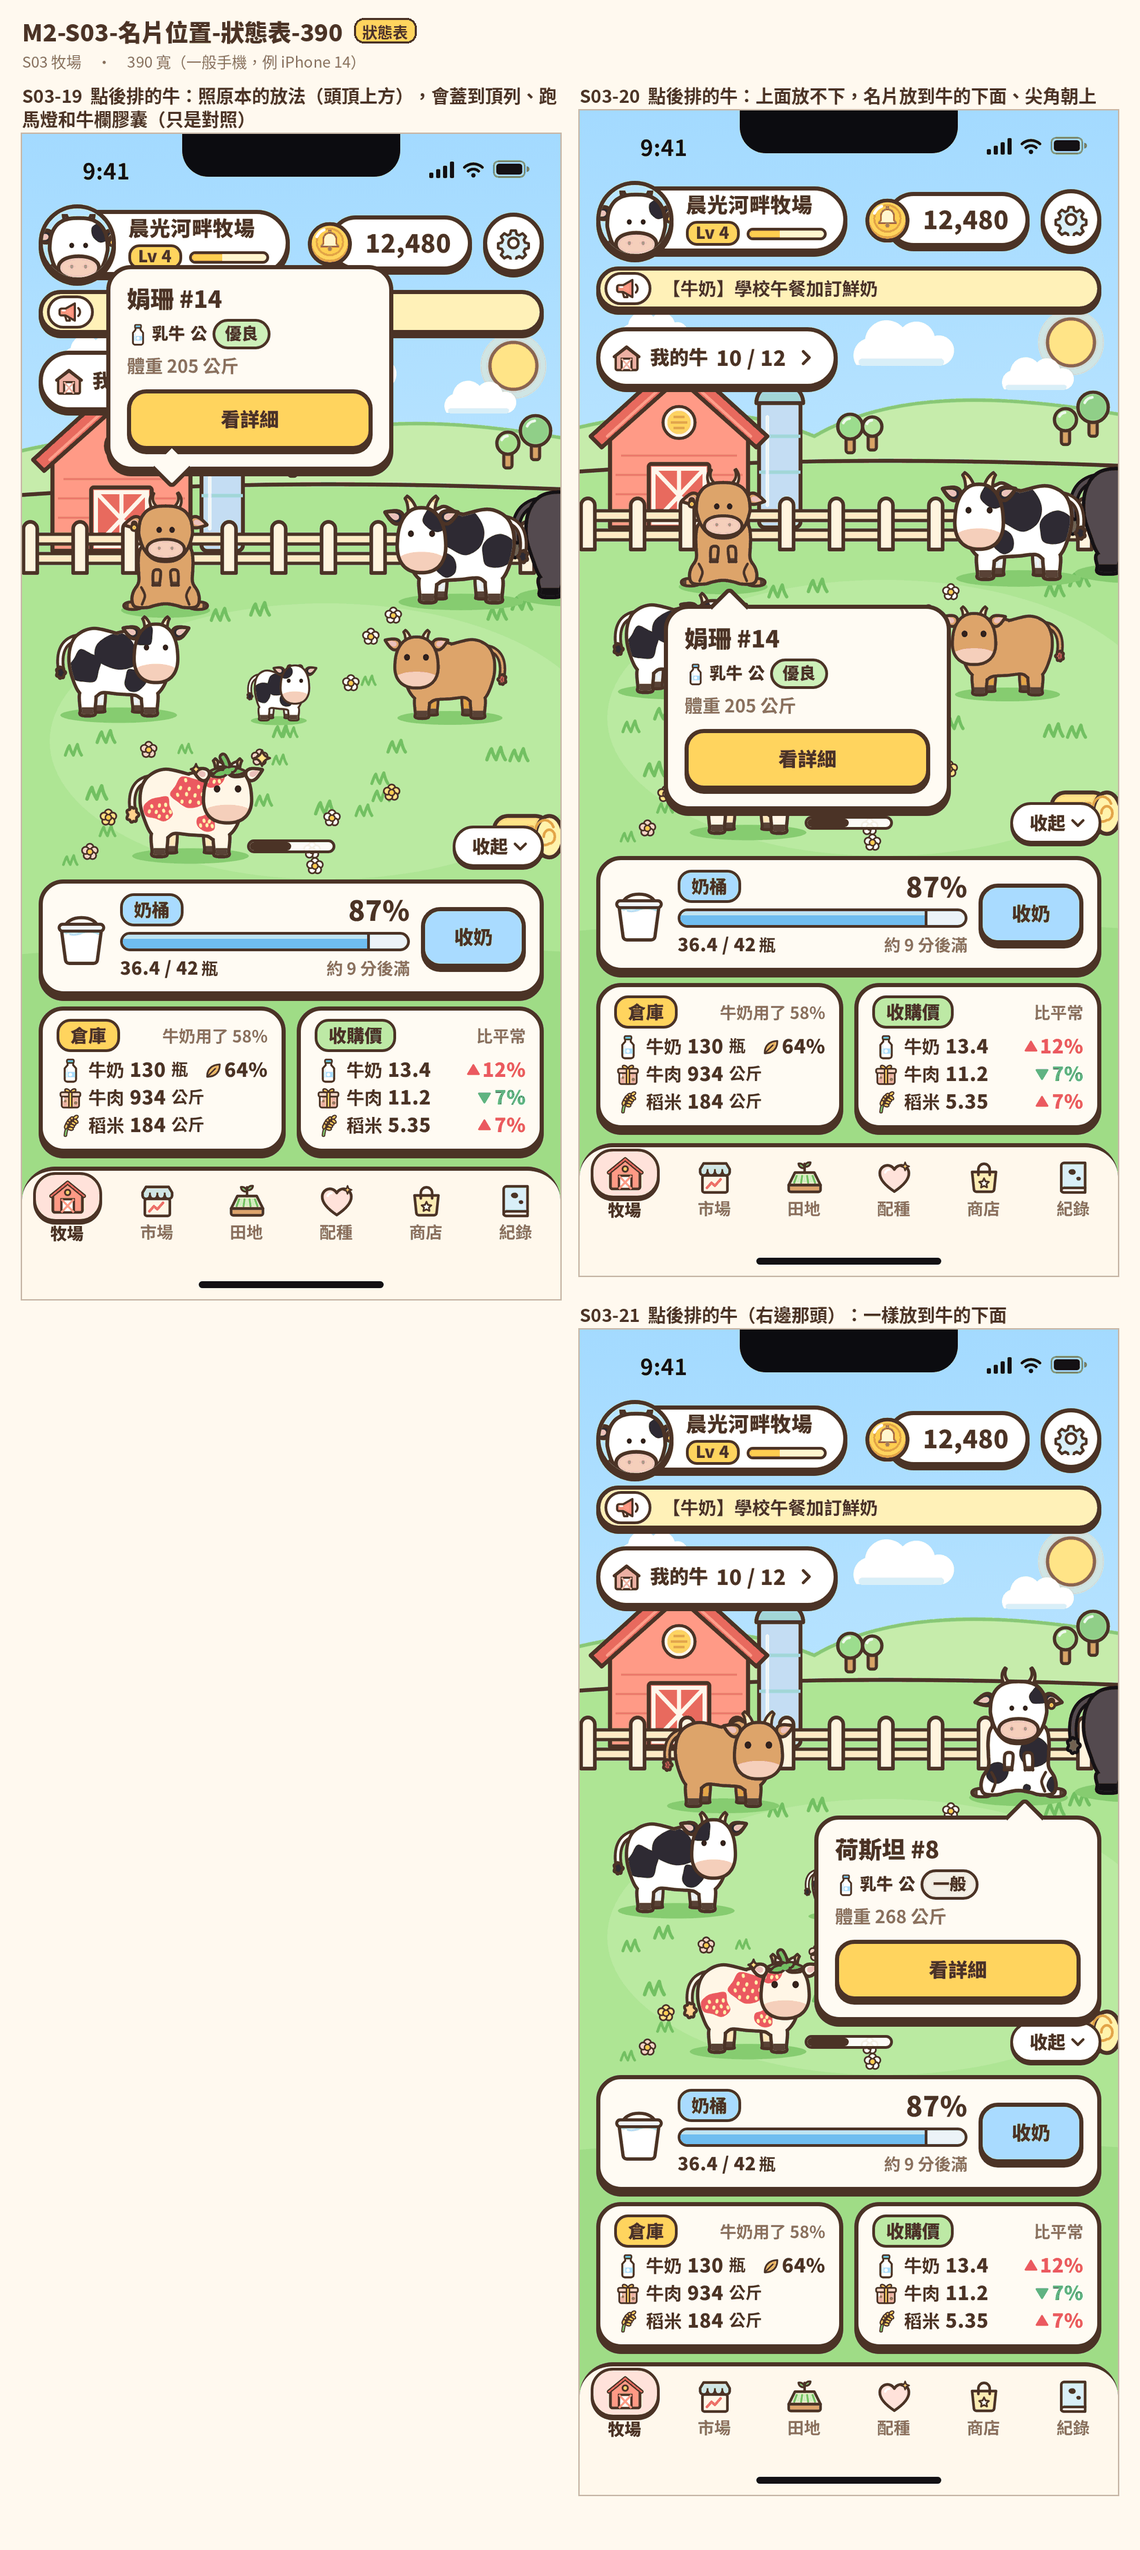
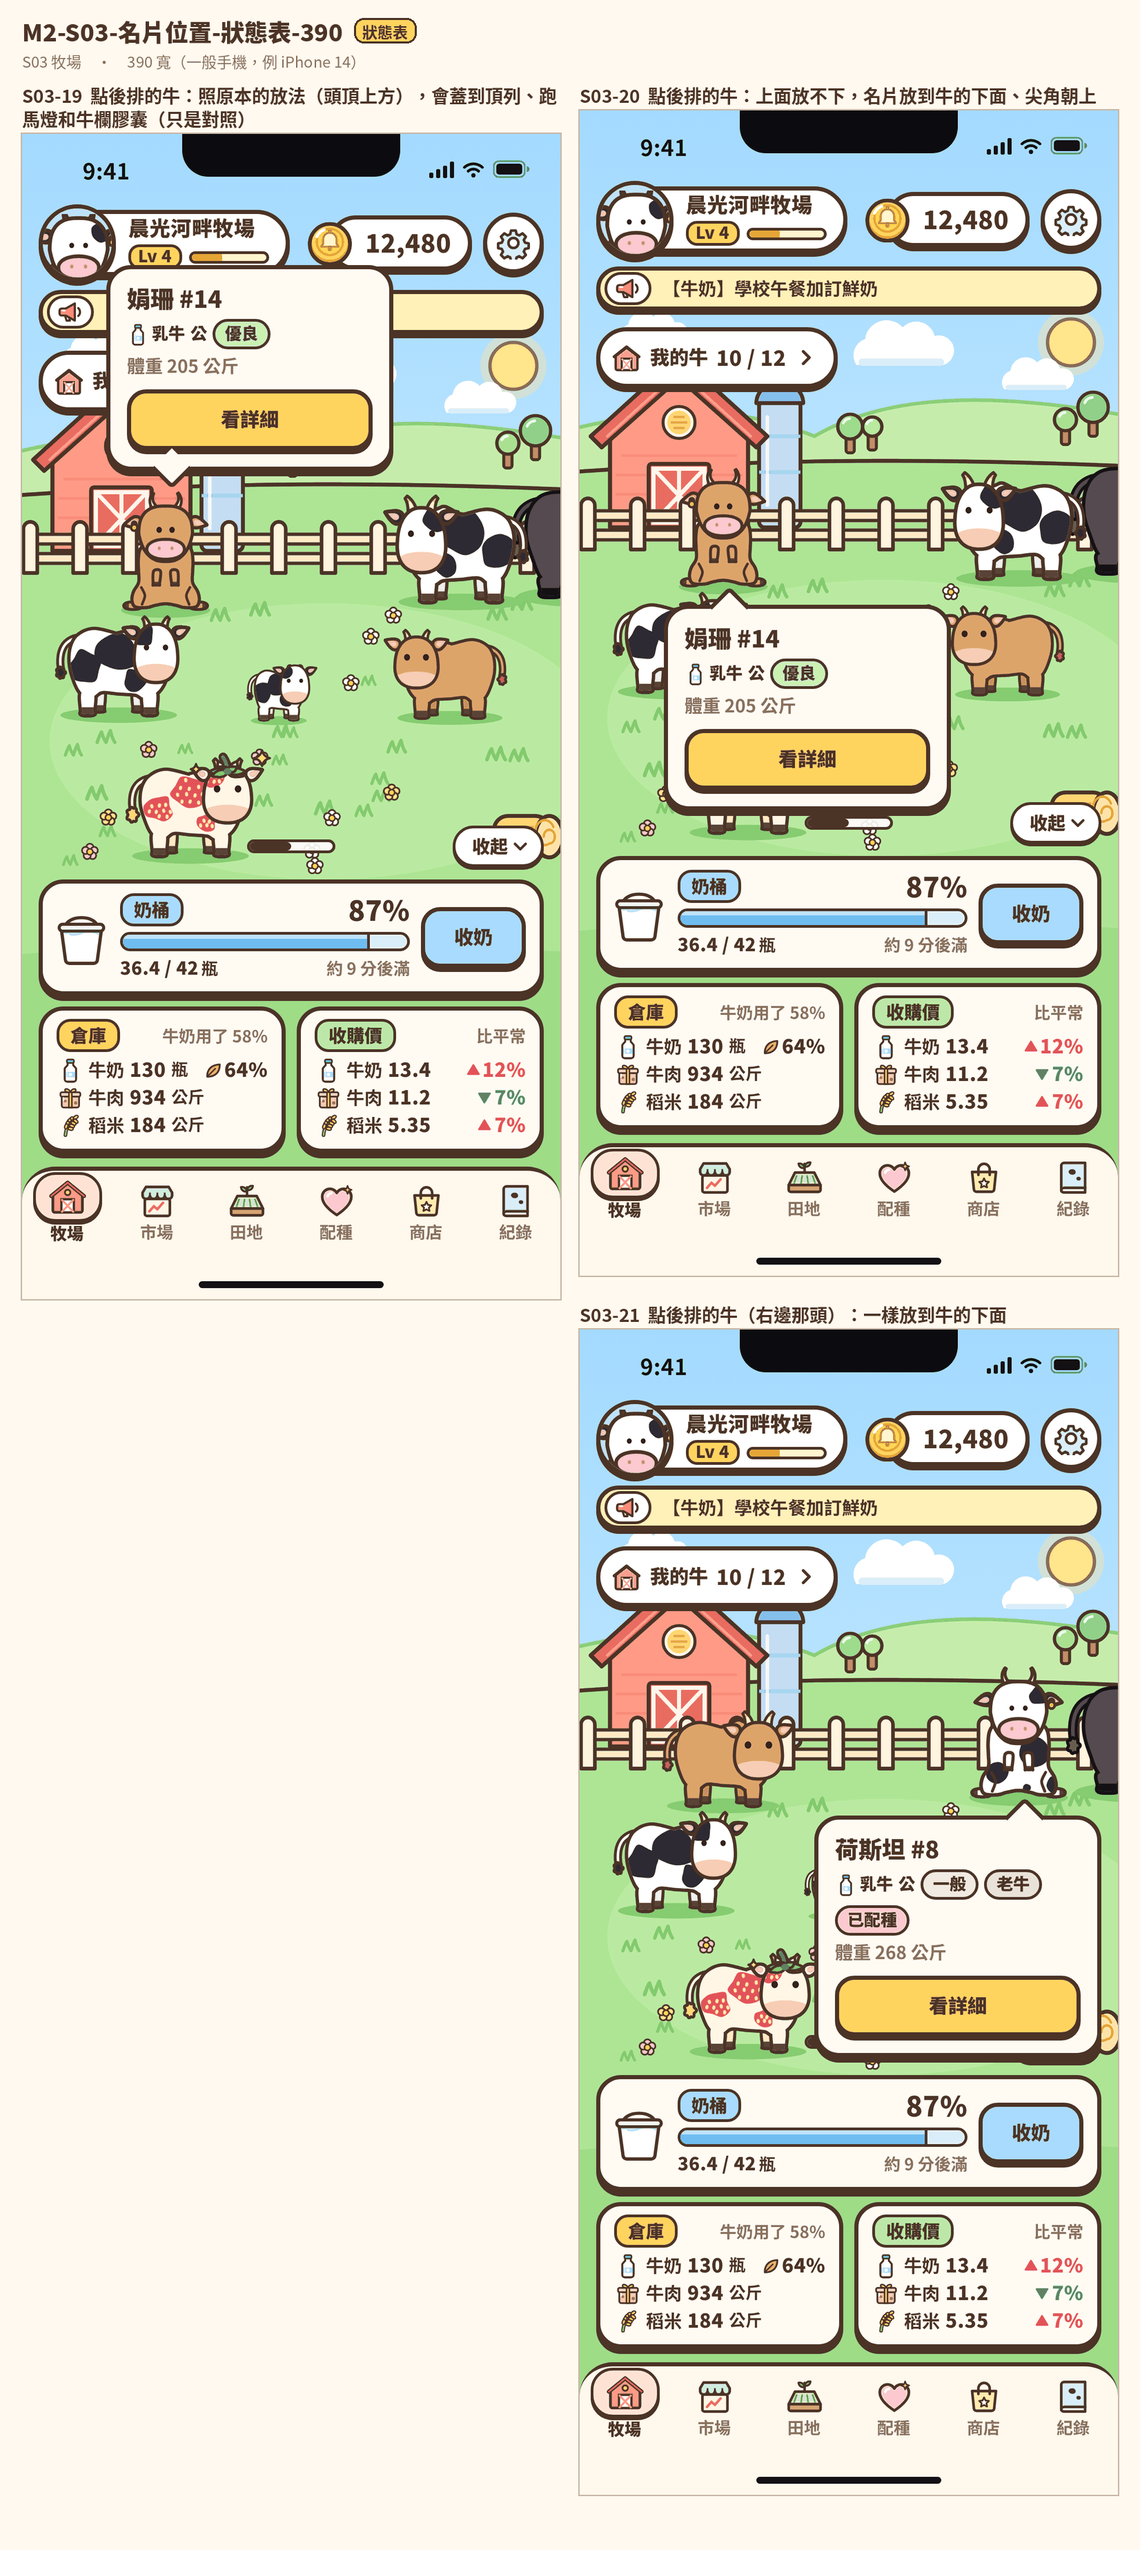
英文單位的「/」後面加 U+2060；評級大框放不下時整組縮小；借種紀錄的長英文名可以在字母之間換行（5-1）；名片補狀態標籤（D31 選 A）

diff --git a/design/m2/src/js/screens/s03.js b/design/m2/src/js/screens/s03.js
@@ -103,15 +103,21 @@ export function ranchPage(ctx, o = {}) {
   return frame(dev, { tab: 'ranch', scene: sc.svg, body, hud: o.hud || {}, overlays: over + (o.overlays || ''), offline: o.offline });
 }
 
+// 牛的狀態標籤：小牛、老牛、工作中、上架中、已配種（牛舍清單和點牛的名片都用這個）
+export function statusChips(c) {
+  const out = [];
+  if (c.age === 'calf') out.push(badge('calf', t('stageCalf')));
+  if (c.age === 'old') out.push(badge('old', t('stageOld')));
+  if (c.field != null) out.push(badge('working', t('badgeWorking')));
+  if (c.listed) out.push(badge('listed', t('badgeListed')));
+  if (c.bred) out.push(badge('bred', t('badgeBred')));
+  return out;
+}
+
 // 牛舍清單的一列
 export function cowListRow(c) {
   const b = BREEDS[c.breed], tier = tierOf(b), sep = t('g.sep');
-  const chips = [useChip(b.use), `<span class="use">${sexText(c.sex)}</span>`, tierChip(tier)];
-  if (c.age === 'calf') chips.push(badge('calf', t('stageCalf')));
-  if (c.age === 'old') chips.push(badge('old', t('stageOld')));
-  if (c.field != null) chips.push(badge('working', t('badgeWorking')));
-  if (c.listed) chips.push(badge('listed', t('badgeListed')));
-  if (c.bred) chips.push(badge('bred', t('badgeBred')));
+  const chips = [useChip(b.use), `<span class="use">${sexText(c.sex)}</span>`, tierChip(tier), ...statusChips(c)];
   let meta;
   if (c.age === 'calf') meta = t('growUp', { v: dur(c.grow_) });
   else if (c.field != null) meta = t('s03.metaField', { n: c.field + 1, rate: c.rice });
@@ -145,21 +151,22 @@ full('S03-04', '倉庫滿了只收一部分', (ctx) => ranchPage(ctx, {
 
 part('S03-05', '奶桶是 0：收奶鈕停用', '.bucket-card', (ctx) => ranchPage(ctx, { dock: { bucket: { qty: 0 } } }));
 
-full('S03-06', '點一頭牛：轉正面、跳出小名片', (ctx) => {
-  const c = COWS.find((x) => x.id === 12);
-  return ranchPage(ctx, {
-    herd: HERD.map((h) => (h.id === 12 ? { ...h, pose: 'front' } : h)),
-    pop: { id: 12, html: `<div class="name">${cowName(c)}</div><div class="chips" style="margin-top:4px">${useChip('dairy')}<span class="use">${sexName('cow')}</span>${tierChip(3)}</div><div class="meta">${t('s03.popMilk', { tier: tierName(3), n: 14 })}</div>${btn(t('s03.popDetail'), { small: true, block: true, kind: 'primary' })}` },
-  });
-});
+// 點牛的小名片：品種＋編號、用途、公母、稀有度、狀態標籤（scope.md S03-06；ceo 2026-10-02 補狀態）。
+// 下面那一行：產奶的母乳牛寫產奶，小牛寫長大還要，其他寫體重
+export function popHtml(c) {
+  const b = BREEDS[c.breed], tier = tierOf(b);
+  const chips = [useChip(b.use), `<span class="use">${sexName(c.sex)}</span>`, tierChip(tier), ...statusChips(c)];
+  const meta = c.age === 'calf' ? t('growUp', { v: dur(c.grow_) }) : b.use === 'dairy' && c.sex === 'cow' ? t('s03.popMilk', { tier: tierName(tier), n: c.milk }) : t('weight', { v: c.kg });
+  return `<div class="name">${cowName(c)}</div><div class="chips" style="margin-top:4px">${chips.join('')}</div><div class="meta">${meta}</div>${btn(t('s03.popDetail'), { small: true, block: true, kind: 'primary' })}`;
+}
+full('S03-06', '點一頭牛：轉正面、跳出小名片', (ctx) => ranchPage(ctx, {
+  herd: HERD.map((h) => (h.id === 12 ? { ...h, pose: 'front' } : h)),
+  pop: { id: 12, html: popHtml(COWS.find((x) => x.id === 12)) },
+}));
 
 // ---------- 點後排的牛：名片的位置（使用者 2026-10-02 核准「放到牛的下面」；合成時另外出一張「名片位置-狀態表」） ----------
 // 名片平常在頭頂上方 14、尖角朝下；上面放不下（名片上緣會碰到頂列：頂列下緣再留 6）就放到牛的下面（腳下 14）、尖角朝上
-const bullPop = (id) => {
-  const c = COWS.find((x) => x.id === id), b = BREEDS[c.breed];
-  return `<div class="name">${cowName(c)}</div><div class="chips" style="margin-top:4px">${useChip(b.use)}<span class="use">${sexName('bull')}</span>${tierChip(tierOf(b))}</div><div class="meta">${t('weight', { v: c.kg })}</div>${btn(t('s03.popDetail'), { small: true, block: true, kind: 'primary' })}`;
-};
-const tapBack = (ctx, id, noflip = false) => ranchPage(ctx, { herd: HERD.map((h) => (h.id === id ? { ...h, pose: 'front' } : h)), pop: { id, html: bullPop(id), noflip } });
+const tapBack = (ctx, id, noflip = false) => ranchPage(ctx, { herd: HERD.map((h) => (h.id === id ? { ...h, pose: 'front' } : h)), pop: { id, html: popHtml(COWS.find((x) => x.id === id)), noflip } });
 const popDraft = (id, name, render, x = {}) => part(id, name, '.phone', render, { board: '名片位置-狀態表', ...x });
 // S03-19 只是對照（舊的放法），留在狀態表上；只有繁中，不列進 scope.md 的頁面表格
 popDraft('S03-19', '點後排的牛：照原本的放法（頭頂上方），會蓋到頂列、跑馬燈和牛欄膠囊（只是對照）', (ctx) => tapBack(ctx, 14, true), { zhOnly: true });

diff --git a/design/m2/src/js/main.js b/design/m2/src/js/main.js
@@ -1,5 +1,5 @@
 // 路由：?id=S03-02&w=390 畫一個狀態；?list=1 列出全部狀態給出圖腳本；?lang=en｜th 換語言（預設繁中）。
-import { applyDevice, fitTitles, fitOriginTags, placeVersion, fitSwipeHint, fitMiniLines, placeCowPop } from './kit.js';
+import { applyDevice, fitTitles, fitOriginTags, placeVersion, fitSwipeHint, fitMiniLines, placeCowPop, fitGrade } from './kit.js';
 import { loadLang } from './i18n.js';
 
 const q = new URLSearchParams(location.search);
@@ -27,6 +27,7 @@ if (q.has('anim')) {
   window.__frame = async (t) => { a.frame(app, t, ctx); await new Promise((r) => requestAnimationFrame(() => requestAnimationFrame(r))); };
   window.__animMeta = { id: a.id, name: a.name, dur: a.dur, keys: a.keys, reduced: a.reduced, where: a.where, gifDpr: a.gifDpr || 1, loop: !!a.loop };
   await settle();
+  if (fitGrade(app)) await settle(); // 評級框放不下就整組縮小（A-10；繁中、泰文不會變）
   await window.__frame(0);
   window.__ready = true;
 } else if (q.has('list')) {
@@ -45,6 +46,7 @@ if (q.has('anim')) {
   if (fitOriginTags(app) + placeVersion(app)) await settle(); // 大圖的來源標籤不蓋到牛頭；開場的版本號不被框蓋住（繁中 430、390 不會變）
   if (fitSwipeHint(app) + fitMiniLines(app)) await settle(); // 牧場的滑動提示放不下就換行；小卡一行放不下就把左邊縮小（繁中不會變）
   if (placeCowPop(app)) await settle(); // 點後排的牛：名片上面放不下就放到牛的下面（前排的牛不變）
+  if (fitGrade(app)) await settle(); // 出貨評級的大框：字放不下就整組縮小（英文；繁中、泰文不會變）
   if (st.type === 'sheet') {
     document.body.style.background = '#FFF9EF';
     window.__size = { w: st.viewport.w, h: Math.ceil(app.scrollHeight) };

diff --git a/design/m2/src/js/kit.js b/design/m2/src/js/kit.js
@@ -115,6 +115,26 @@ export function placeCowPop(root) {
   return n;
 }
 
+// 出貨評級的大框（S20、A-10）：字放不下（框 116 寬，左右各留 6）時，整組等比例縮小，跟 app 的 FittedBox 一樣（ceo 2026-10-02，cow-app #85 量到英文「Grade B」蓋到框線）。
+// 繁中「A 級」、泰文「เกรด A」放得下，不會變
+export function fitGrade(root) {
+  let n = 0;
+  root.querySelectorAll('.grade-big').forEach((g) => {
+    const kids = [...g.children];
+    if (!kids.length) return;
+    const rs = kids.map((k) => k.getBoundingClientRect());
+    const wNow = Math.max(...rs.map((r) => r.right)) - Math.min(...rs.map((r) => r.left)), avail = g.clientWidth - 12;
+    if (wNow <= avail + 0.5) return;
+    const s = document.createElement('span');
+    s.className = 'gb-fit';
+    kids.forEach((k) => s.appendChild(k));
+    g.appendChild(s);
+    s.style.zoom = String(avail / s.offsetWidth);
+    n++;
+  });
+  return n;
+}
+
 // 開場（S01）的版本號一律在框的下面（ceo 2026-10-02，跟 app #61 一樣）：平常在最下面（安全區上面 12 px）；
 // 框太高、版本號會被蓋住時，接在框下面 12 px，整頁變長、可以往下捲，多出來的部分是草地。
 export function placeVersion(root) {

diff --git a/design/m2/src/css/screens.css b/design/m2/src/css/screens.css
@@ -824,3 +824,8 @@
   .btn:not([disabled]):not(.disabled):active, button.card:not([disabled]):active, .icon-btn:not([disabled]):active, .gear:active, .pen-pill:active,
   .pick:not([disabled]):active, .dex-cell:active, .dock-toggle:active .dt-pill { background-image: linear-gradient(var(--press), var(--press)); }
 }
+
+/* 出貨評級的大框：字放不下時 kit.js 的 fitGrade() 把字包起來整組縮小（英文；繁中、泰文不會變） */
+.grade-big .gb-fit { display: inline-flex; align-items: baseline; }
+/* 借種紀錄：牧場名是很長、中間沒有空白的英文字時，可以在任何字母之間換行，不蓋到右邊的金額（5-1，ceo 2026-10-02；繁中不會變） */
+.log-row .grow { min-width: 0; overflow-wrap: anywhere; }

diff --git a/design/m2/measure/en-th-report.md b/design/m2/measure/en-th-report.md
@@ -5,6 +5,21 @@
 - 依據：D25（英文、泰文畫面不送使用者核准，由 cow-ui 量版面）；字串表 `design/m2/i18n/en.json`、`th.json`（ceo，#23；這次的 key 改動在 #32）。
 - 自動產生的明細：`summary-en.md`、`summary-th.md`（每個狀態、每種寬度）；繁中是 `summary.md`。
 
+## 英文單位的「/」、評級大框、借種紀錄的長名字、名片的狀態標籤（2026-10-02，ceo 交辦，cow-app #85 之後）
+
+- 英文單位的「/」後面加 U+2060（跟泰文那次一樣）：14 個 key、16 處（coins/kg、btl/h、kg/h、coins/{unit}…）。
+  - cow-app #85 量到 S07 的「coins/kg」在 320 從「/」後面斷開；現在整組一起換行（S07-02 320：「Beef now 11.2」換行「coins/kg」）。
+  - 比泰文多 3 個（s04.feeHowGrow、s04.feeHowMax、fieldRate）：泰文這 3 句本來就沒有「/」。
+- 出貨評級的大框（S20、A-10）：英文「Grade B」比框（116 寬）寬，蓋到框線。放不下時整組等比例縮小，左右各留 6 px，跟 app 的 FittedBox 一樣（`kit.js` 的 `fitGrade()`）。英文四種寬度都會縮；繁中「A 級」、泰文「เกรด A」放得下，不變。
+- 借種紀錄的長名字（S18-11，缺口清單 5-1）：對方的牧場名是很長、中間沒有空白的英文字時，在任何字母之間換行（`overflow-wrap: anywhere`），不蓋到右邊的金額。
+  - 用「MorningRiverFarm」量：英文、泰文 320 的重疊 2 處 → 0 處；360 以上本來就沒事。
+  - 泰文的「斷在詞中間」會標出「MorningRiverFa⏎rm」，被拆開的是英文牧場名，正是要的換法，不是泰文詞被拆開。
+  - 設計稿的假資料是中文牧場名，設計稿的圖不變。
+- 點牛的名片（S03-06、S03-20、S03-21）：跟牛舍清單一樣顯示狀態標籤（小牛、老牛、工作中、上架中、已配種）。下面那一行：產奶的母乳牛寫產奶，小牛寫「長大還要」，其他牛寫體重。
+  - S03-21 那頭荷斯坦公牛 #8 在假資料裡是老牛、已配種，名片多兩個標籤、高一行。`M2-S03-名片位置-狀態表-430／390` 跟著換（ceo 確認）。S03-06、S03-20 的牛沒有狀態，不變。
+- 有問題的狀態數（430／390／360／320）：繁中、英文、泰文都不變（摘要重產後跟原本逐字相同）。
+- 繁中：HTML 跟 main 比，752 個狀態只有 S03-21 不同；全部重拍、12 個動畫重拍後，`boards/` 只有上面那兩張變了。
+
 ## 點後排的牛的名片、泰文「ความสด」（2026-10-02）
 
 - 名片的新放法（S03-20、21，使用者核准，D30）：三種語言都量，沒有新問題。

diff --git a/design/m2/scope.md b/design/m2/scope.md
@@ -141,6 +141,7 @@
   - 名片上緣會碰到頂列（頂列下緣再留 6 px）時，改放到牛的下面：名片上緣在牛腳下 14 px，尖角在上面、朝上。
   - 左右位置照舊（對準牛頭、擋在畫面裡）。名片被擋在畫面裡時（靠右的牛），尖角跟著移到對準那頭牛；沒被擋住時本來就對準。
   - 狀態表 `M2-S03-名片位置-狀態表` 的 S03-19 是照原本放法的對照，不是要做的畫面。
+  - 名片的內容（ceo 2026-10-02）：品種＋編號；下一行是用途、公母、稀有度和狀態標籤（小牛、老牛、工作中、上架中、已配種，跟牛舍清單一樣，放不下就換行）；再下一行，產奶的母乳牛寫產奶，小牛寫「長大還要」，其他牛寫體重。
 
 ### S04 牛的詳細資料
 
@@ -385,6 +386,7 @@
 | S18-13 | 名字最長：8 個中文字、16 個英文字母（量測用）；名字太長只截名字，「電腦」和 #編號一定看得到 | 局部 | 量測用 | — | 無 |
 | S18-14 | 借種紀錄：對方的牧場刪除了，紀錄照樣保留，對方的名字顯示「已刪除的牧場」（量長度用） | 局部 | 對方刪除牧場（ceo 2026-10-02） | 新（`s18.deletedRanch`） | 無 |
 - D26（使用者 2026-10-01：「s04 上架借種價格我們幫用戶算好(理論上越稀有的牛就越貴，越大的也是)」，選「看體重公斤數」）：借種費＝公牛現在的體重 × 每公斤價格（一般 1.1、優良 2.75、稀有 6.6、傳說 16.5 幣），四捨五入到 10 幣；跟著公牛長大自動漲。主人只決定要不要上架，不再選價位。數字暫定，M3 重跑模擬後定案。
+- 借種紀錄（S18-11）：對方的牧場名是很長、中間沒有空白的英文字時，放不下就在任何字母之間換行，不蓋到右邊的金額（英文、泰文窄手機；繁中不會變。ceo 2026-10-02，缺口清單 5-1）。
 
 ### S19 商店等級抽牛
 
@@ -405,6 +407,8 @@
 | S20-02 | 評級 B | 整頁 | 同上 | 同上 | 有 |
 | S20-03 | 評級 C | 整頁 | 同上 | 同上 | 有 |
 | — | 揭曉動畫：見 A-10 | — | — | — | 無 |
+
+- 評級的大框（116 寬，S20、A-10）：字放不下時（英文「Grade B」），整組等比例縮小到左右各留 6 px，跟 app 的 FittedBox 一樣。繁中「A 級」、泰文「เกรด A」放得下，不變（ceo 2026-10-02，cow-app #85）。
 
 ---
 

diff --git a/docs/i18n/glossary.md b/docs/i18n/glossary.md
@@ -21,6 +21,7 @@
 - 美式拼法。
 - 按鈕和標題只有第一個字和專有名詞大寫，例：Collect milk、Back up ranch。
 - 第二人稱用 you。
+- 單位的「/」後面加 U+2060（WORD JOINER，看不見），例 coins/kg、btl/h，不讓它在「/」後面斷行。字串表 `design/m2/i18n/en.json` 裡有，這份用詞表寫原文（ceo 2026-10-02；cow-app #85 量到 S07 的 coins/kg 在 320 斷開）。
 
 **泰文**
 - 中性寫法，不用 ครับ／ค่ะ。第二人稱用 คุณ，能省略就省略。
@@ -32,6 +33,7 @@
     - 已加的字：โฮลสไตน์、เจอร์ซีย์、แองกัส、ชาโรเลส์、สตรอว์เบอร์รี、อัปเกรด（cow-ui 2026-10-02 量測，PR #50）；วากิว、ไฮแลนด์（設計稿的版面沒被拆開，預防 app 的版面不同，PR #56）。
     - U+2060 只加在音節之間，不夾在子音和它的符號中間。
     - 這份用詞表寫的是原文，沒有 U+2060；字串表 `design/m2/i18n/th.json` 裡有。新增外來字時，同樣先量再加。
+- 單位的「/」後面也加 U+2060，例 กก./ชม.、เหรียญ/{unit}（cow-app #70 量到在 320 斷成兩行）。
 - 年份用西元年，不用佛曆。
 
 ## 核心名詞
